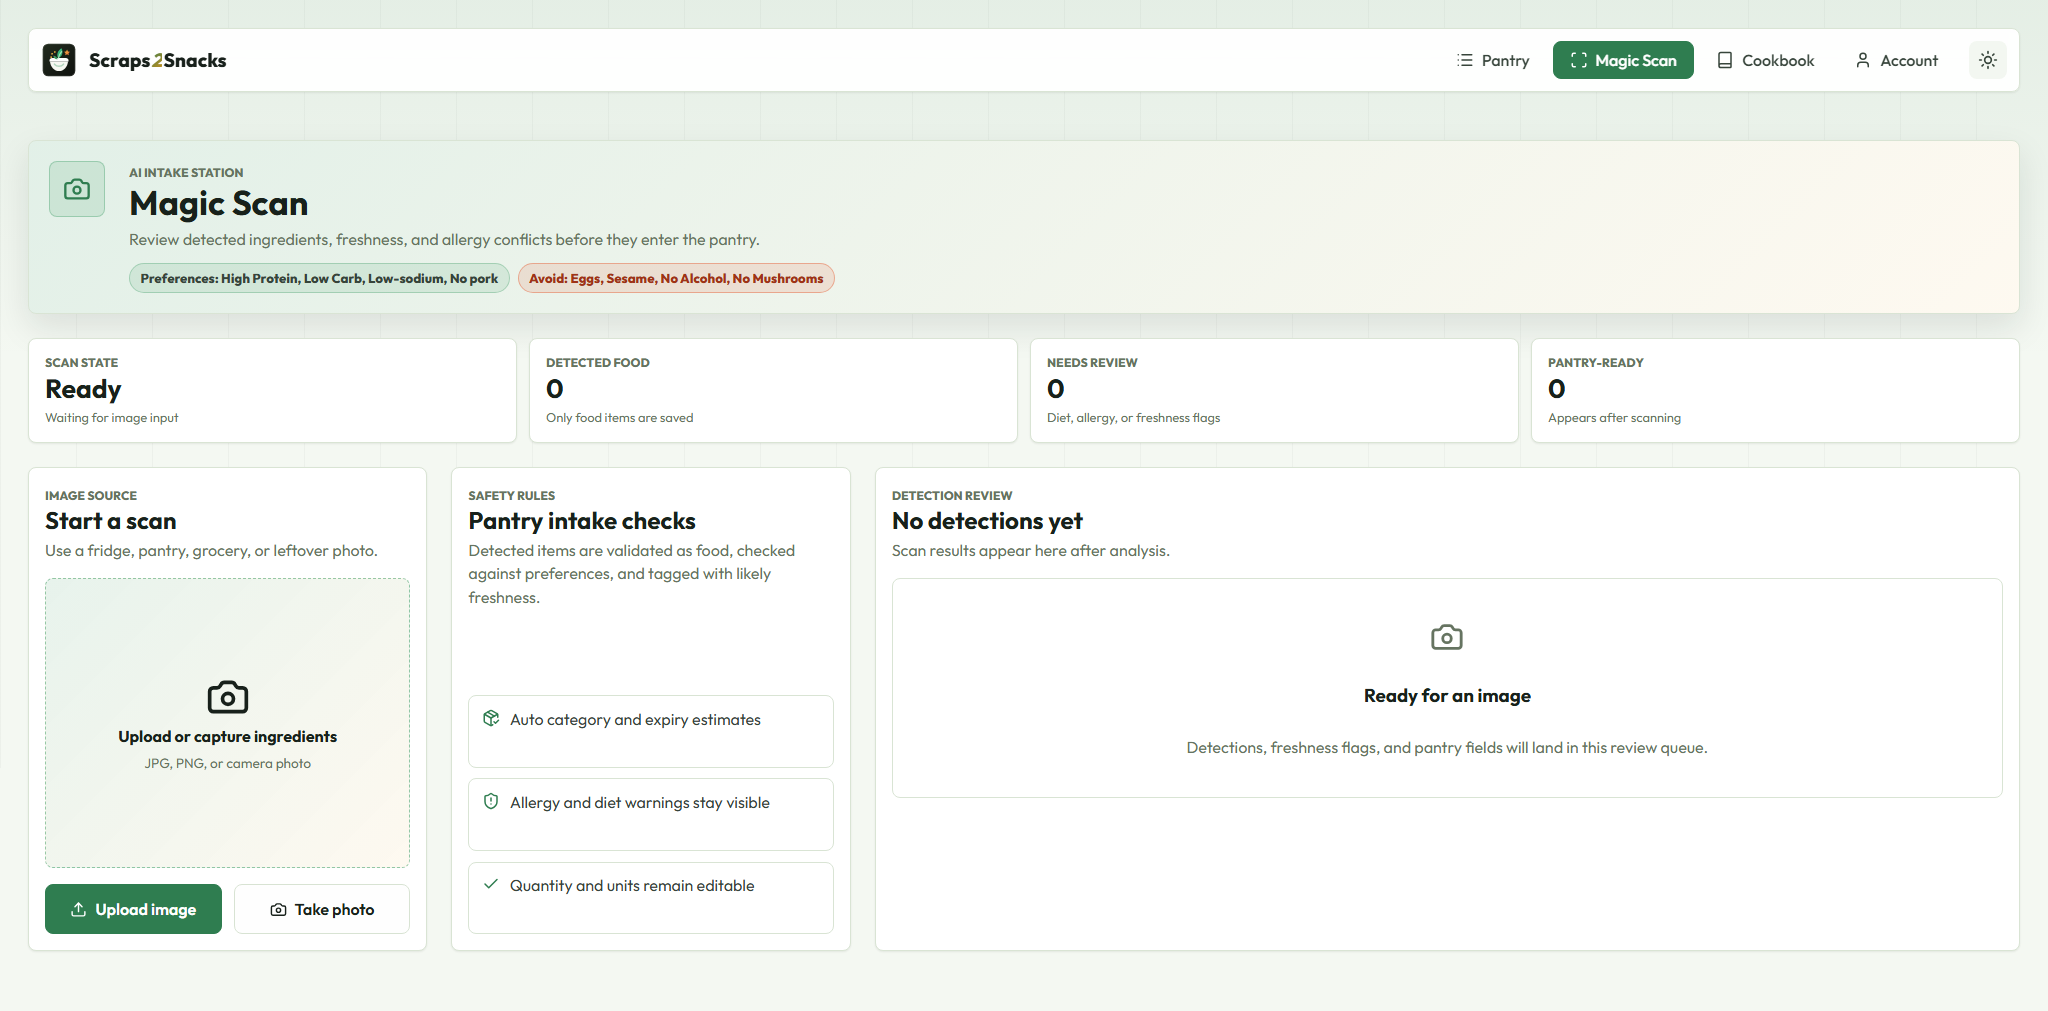
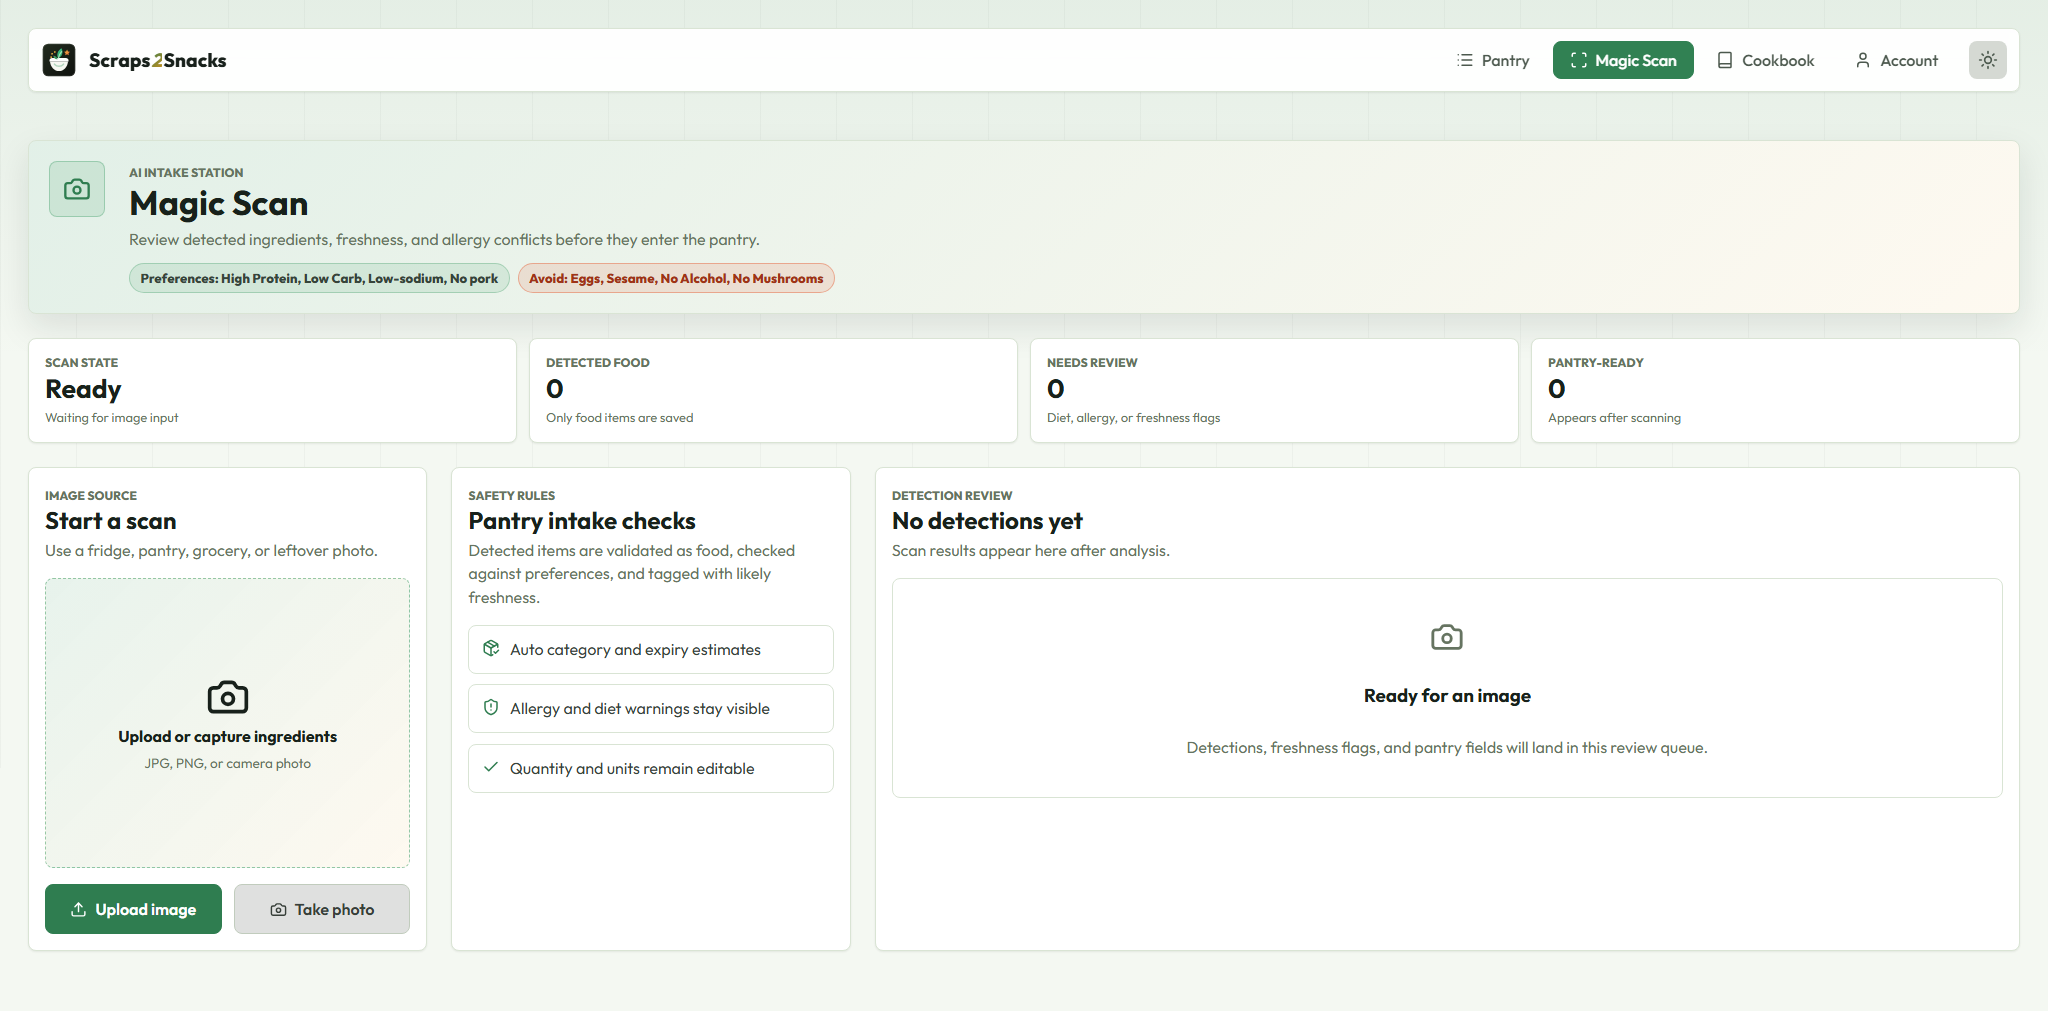
feat: Add alignment styles for scan rule panel in CSS

diff --git a/src/index.css b/src/index.css
@@ -7012,6 +7012,10 @@ button:disabled,
   gap: 1rem;
 }
 
+.scan-rule-panel {
+  align-content: start;
+}
+
 .scan-capture-dropzone {
   position: relative;
   display: grid;